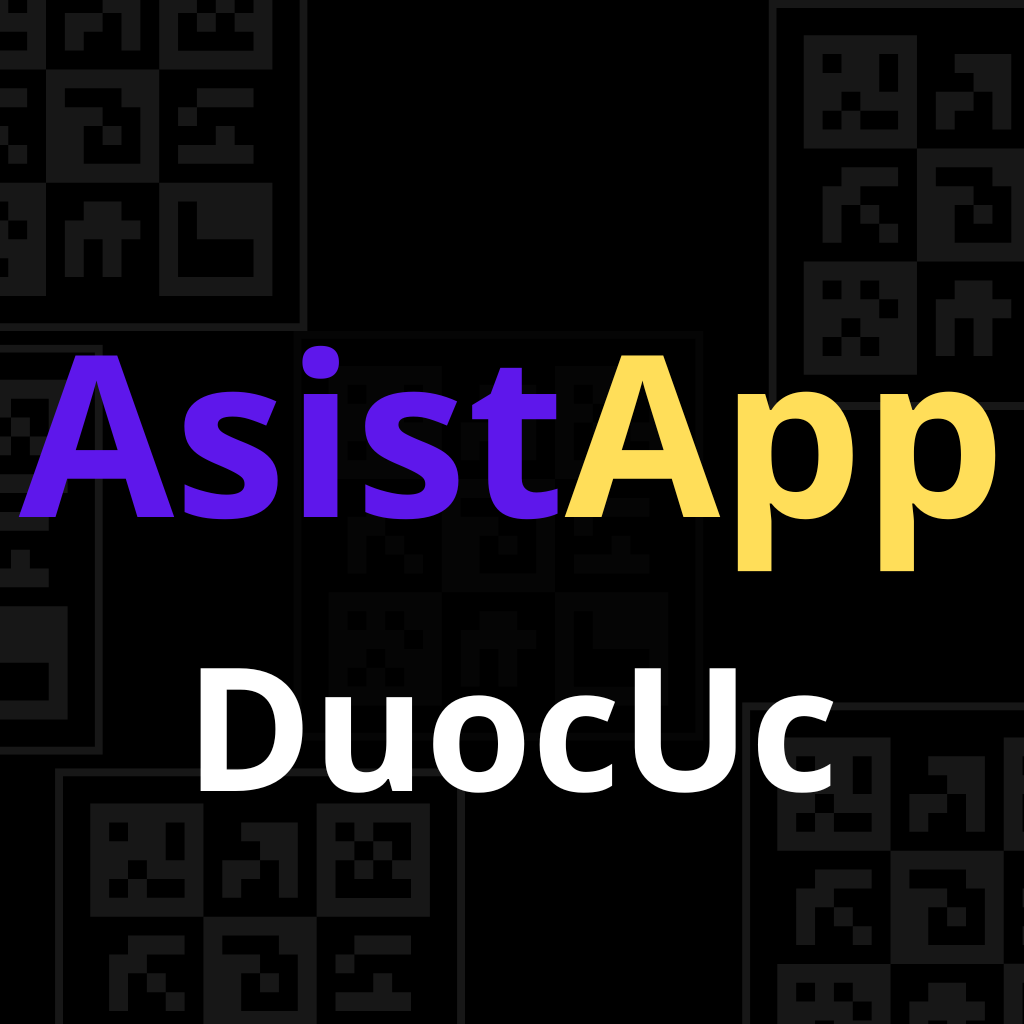
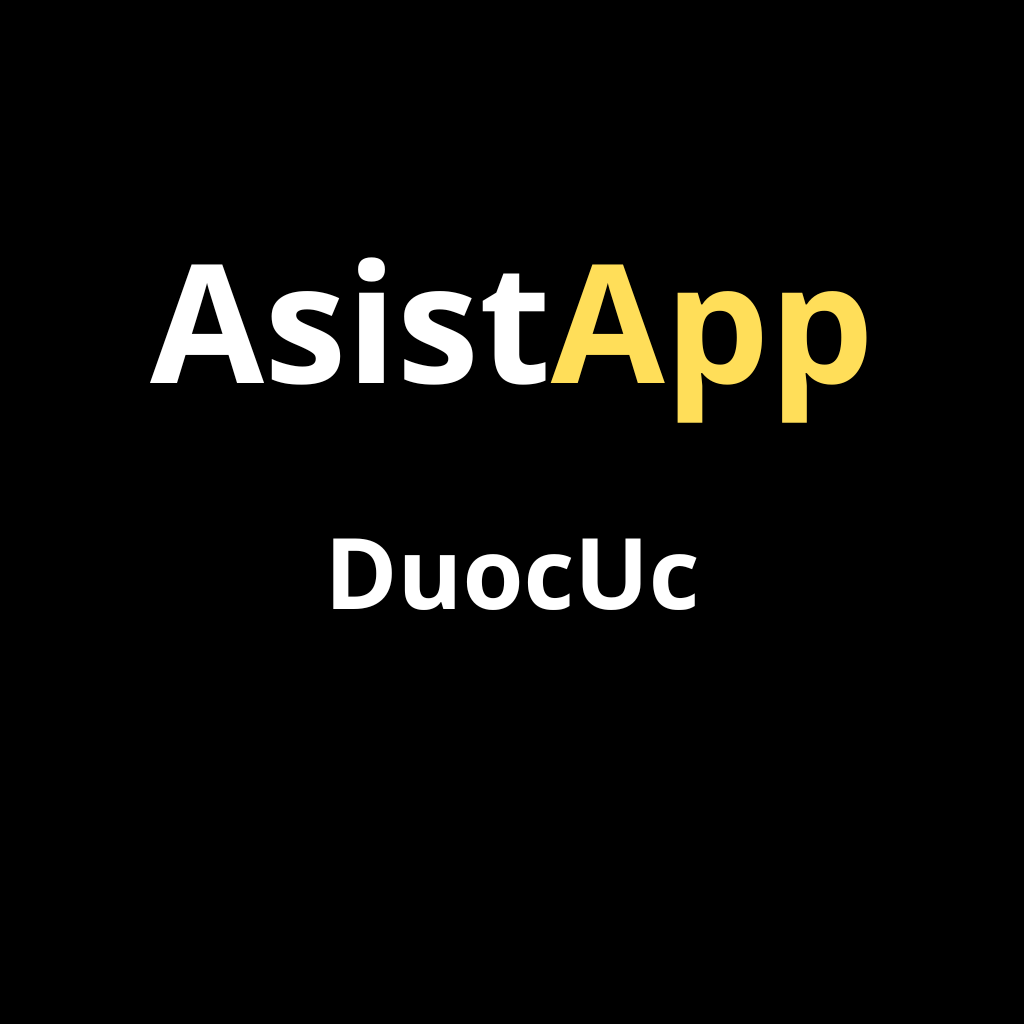
Cambio iconos v2 y nombre app

Changed region(s): [[0.0, 0.25, 0.9688, 0.5938], [0.1875, 0.625, 0.8125, 0.7812]]

diff --git a/capacitor.config.ts b/capacitor.config.ts
@@ -2,7 +2,7 @@ import type { CapacitorConfig } from '@capacitor/cli';
 
 const config: CapacitorConfig = {
   appId: 'io.ionic.starter',
-  appName: 'AssistApp',
+  appName: 'AsistApp',
   webDir: 'www'
 };
 
